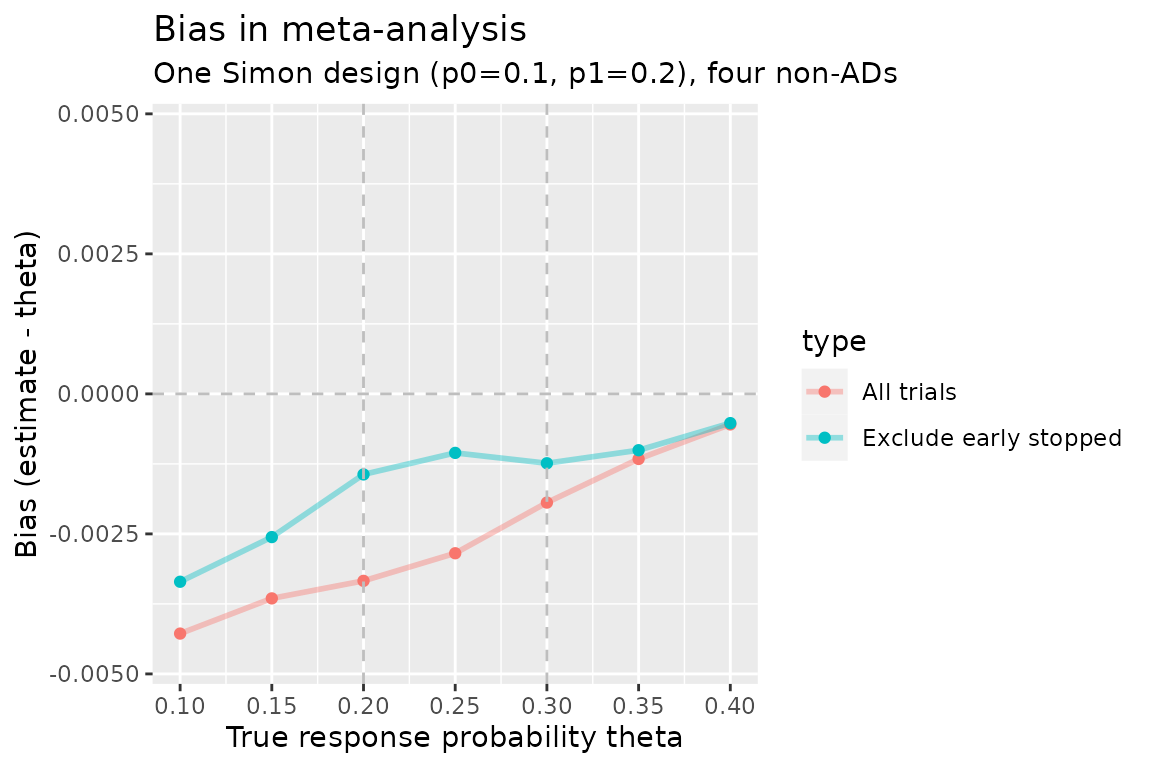
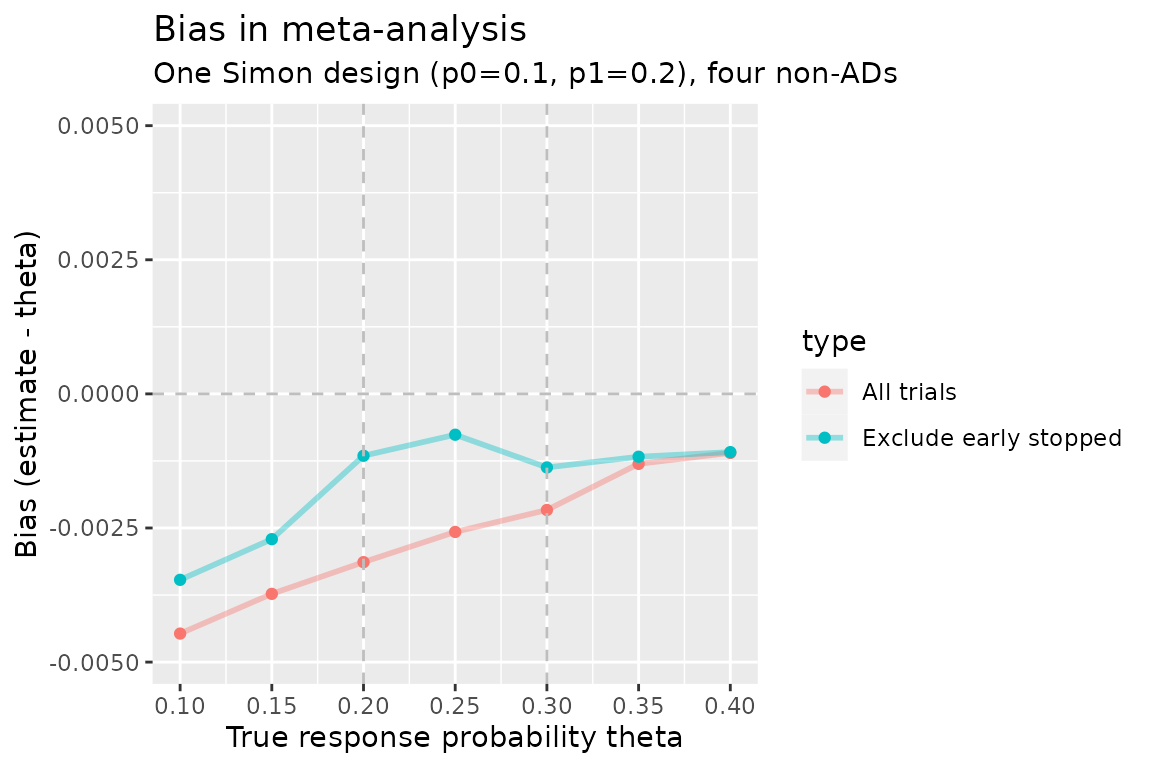
Built site for pwb: 0.0.0.9000@13bfd5b

diff --git a/articles/GS.html b/articles/GS.html
@@ -101,10 +101,10 @@
                      nsims<span class="op">=</span><span class="va">nsims</span><span class="op">)</span>
   <span class="va">single.GS</span><span class="op">$</span><span class="va">ests</span><span class="op">[</span>, <span class="fl">1</span><span class="op">:</span><span class="fl">5</span><span class="op">]</span>
 <span class="co">#&gt;                          nsims    bias mean.SE emp.SE theta</span>
-<span class="co">#&gt; Stopped early            39142 -0.0451  0.0455 0.0274   0.5</span>
-<span class="co">#&gt; Complete                 60858  0.0248  0.0421 0.0300   0.5</span>
-<span class="co">#&gt; All                     100000 -0.0026  0.0434 0.0448   0.5</span>
-<span class="co">#&gt; All (precision-weghted) 100000  0.0001  0.0433     NA   0.5</span>
+<span class="co">#&gt; Stopped early            39319 -0.0452  0.0455 0.0275   0.5</span>
+<span class="co">#&gt; Complete                 60681  0.0246  0.0421 0.0299   0.5</span>
+<span class="co">#&gt; All                     100000 -0.0029  0.0435 0.0447   0.5</span>
+<span class="co">#&gt; All (precision-weghted) 100000 -0.0002  0.0433     NA   0.5</span>
   <span class="fu"><a href="https://rdrr.io/r/base/Round.html" class="external-link">round</a></span><span class="op">(</span><span class="va">single.GS</span><span class="op">$</span><span class="va">mc.error</span>, <span class="fl">5</span><span class="op">)</span>
 <span class="co">#&gt; [1] 0.00014 0.00010</span></code></pre></div>
 <p>How does bias compare when the true response probability is varied? Find results for a vector of true response probabilities:</p>

diff --git a/articles/MA_simon.html b/articles/MA_simon.html
@@ -95,8 +95,8 @@
                             n.studies<span class="op">=</span><span class="fl">4</span><span class="op">)</span>
 <span class="va">ma.simon.results</span>
 <span class="co">#&gt;                        reps mean.studies          bias    mean.se theta</span>
-<span class="co">#&gt; All trials            10000       5.0000 -8.826075e-05 0.01528185   0.5</span>
-<span class="co">#&gt; Exclude early stopped 10000       4.3211  1.703223e-03 0.01595527   0.5</span>
+<span class="co">#&gt; All trials            10000       5.0000 -0.0004961679 0.01513145   0.5</span>
+<span class="co">#&gt; Exclude early stopped 10000       4.3086  0.0012482974 0.01572963   0.5</span>
 <span class="co">#&gt;                                        type</span>
 <span class="co">#&gt; All trials                       All trials</span>
 <span class="co">#&gt; Exclude early stopped Exclude early stopped</span></code></pre></div>
